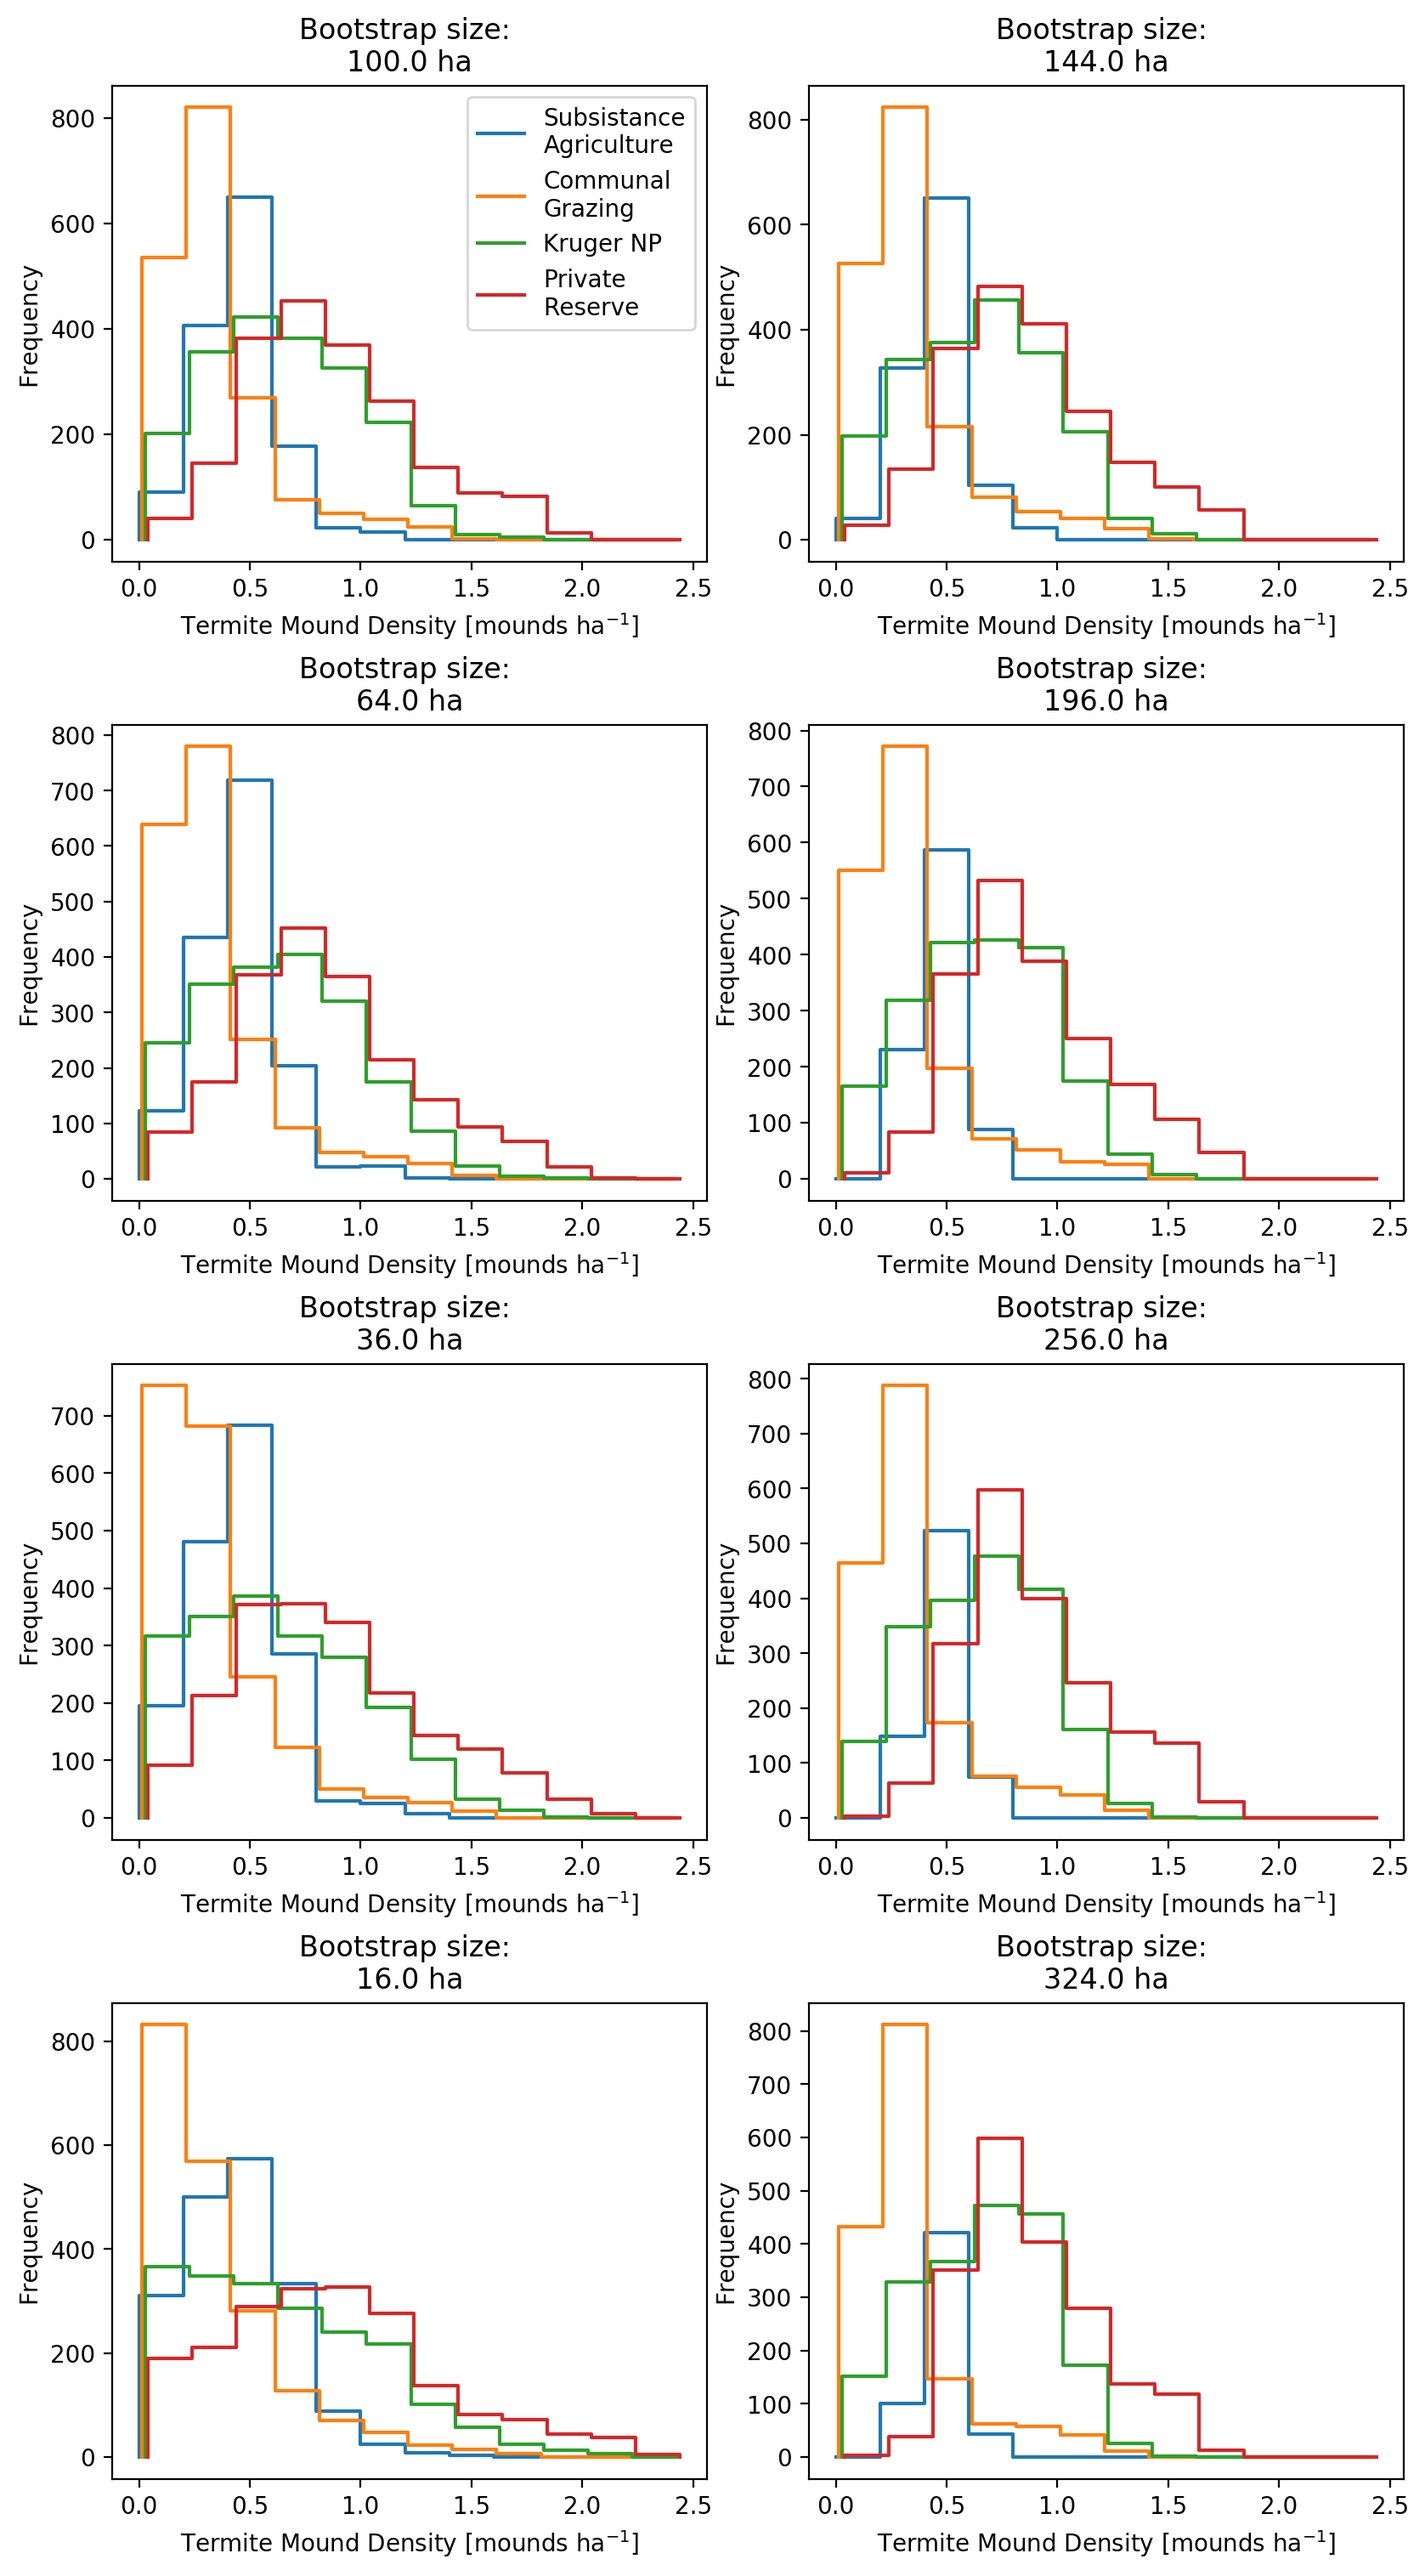
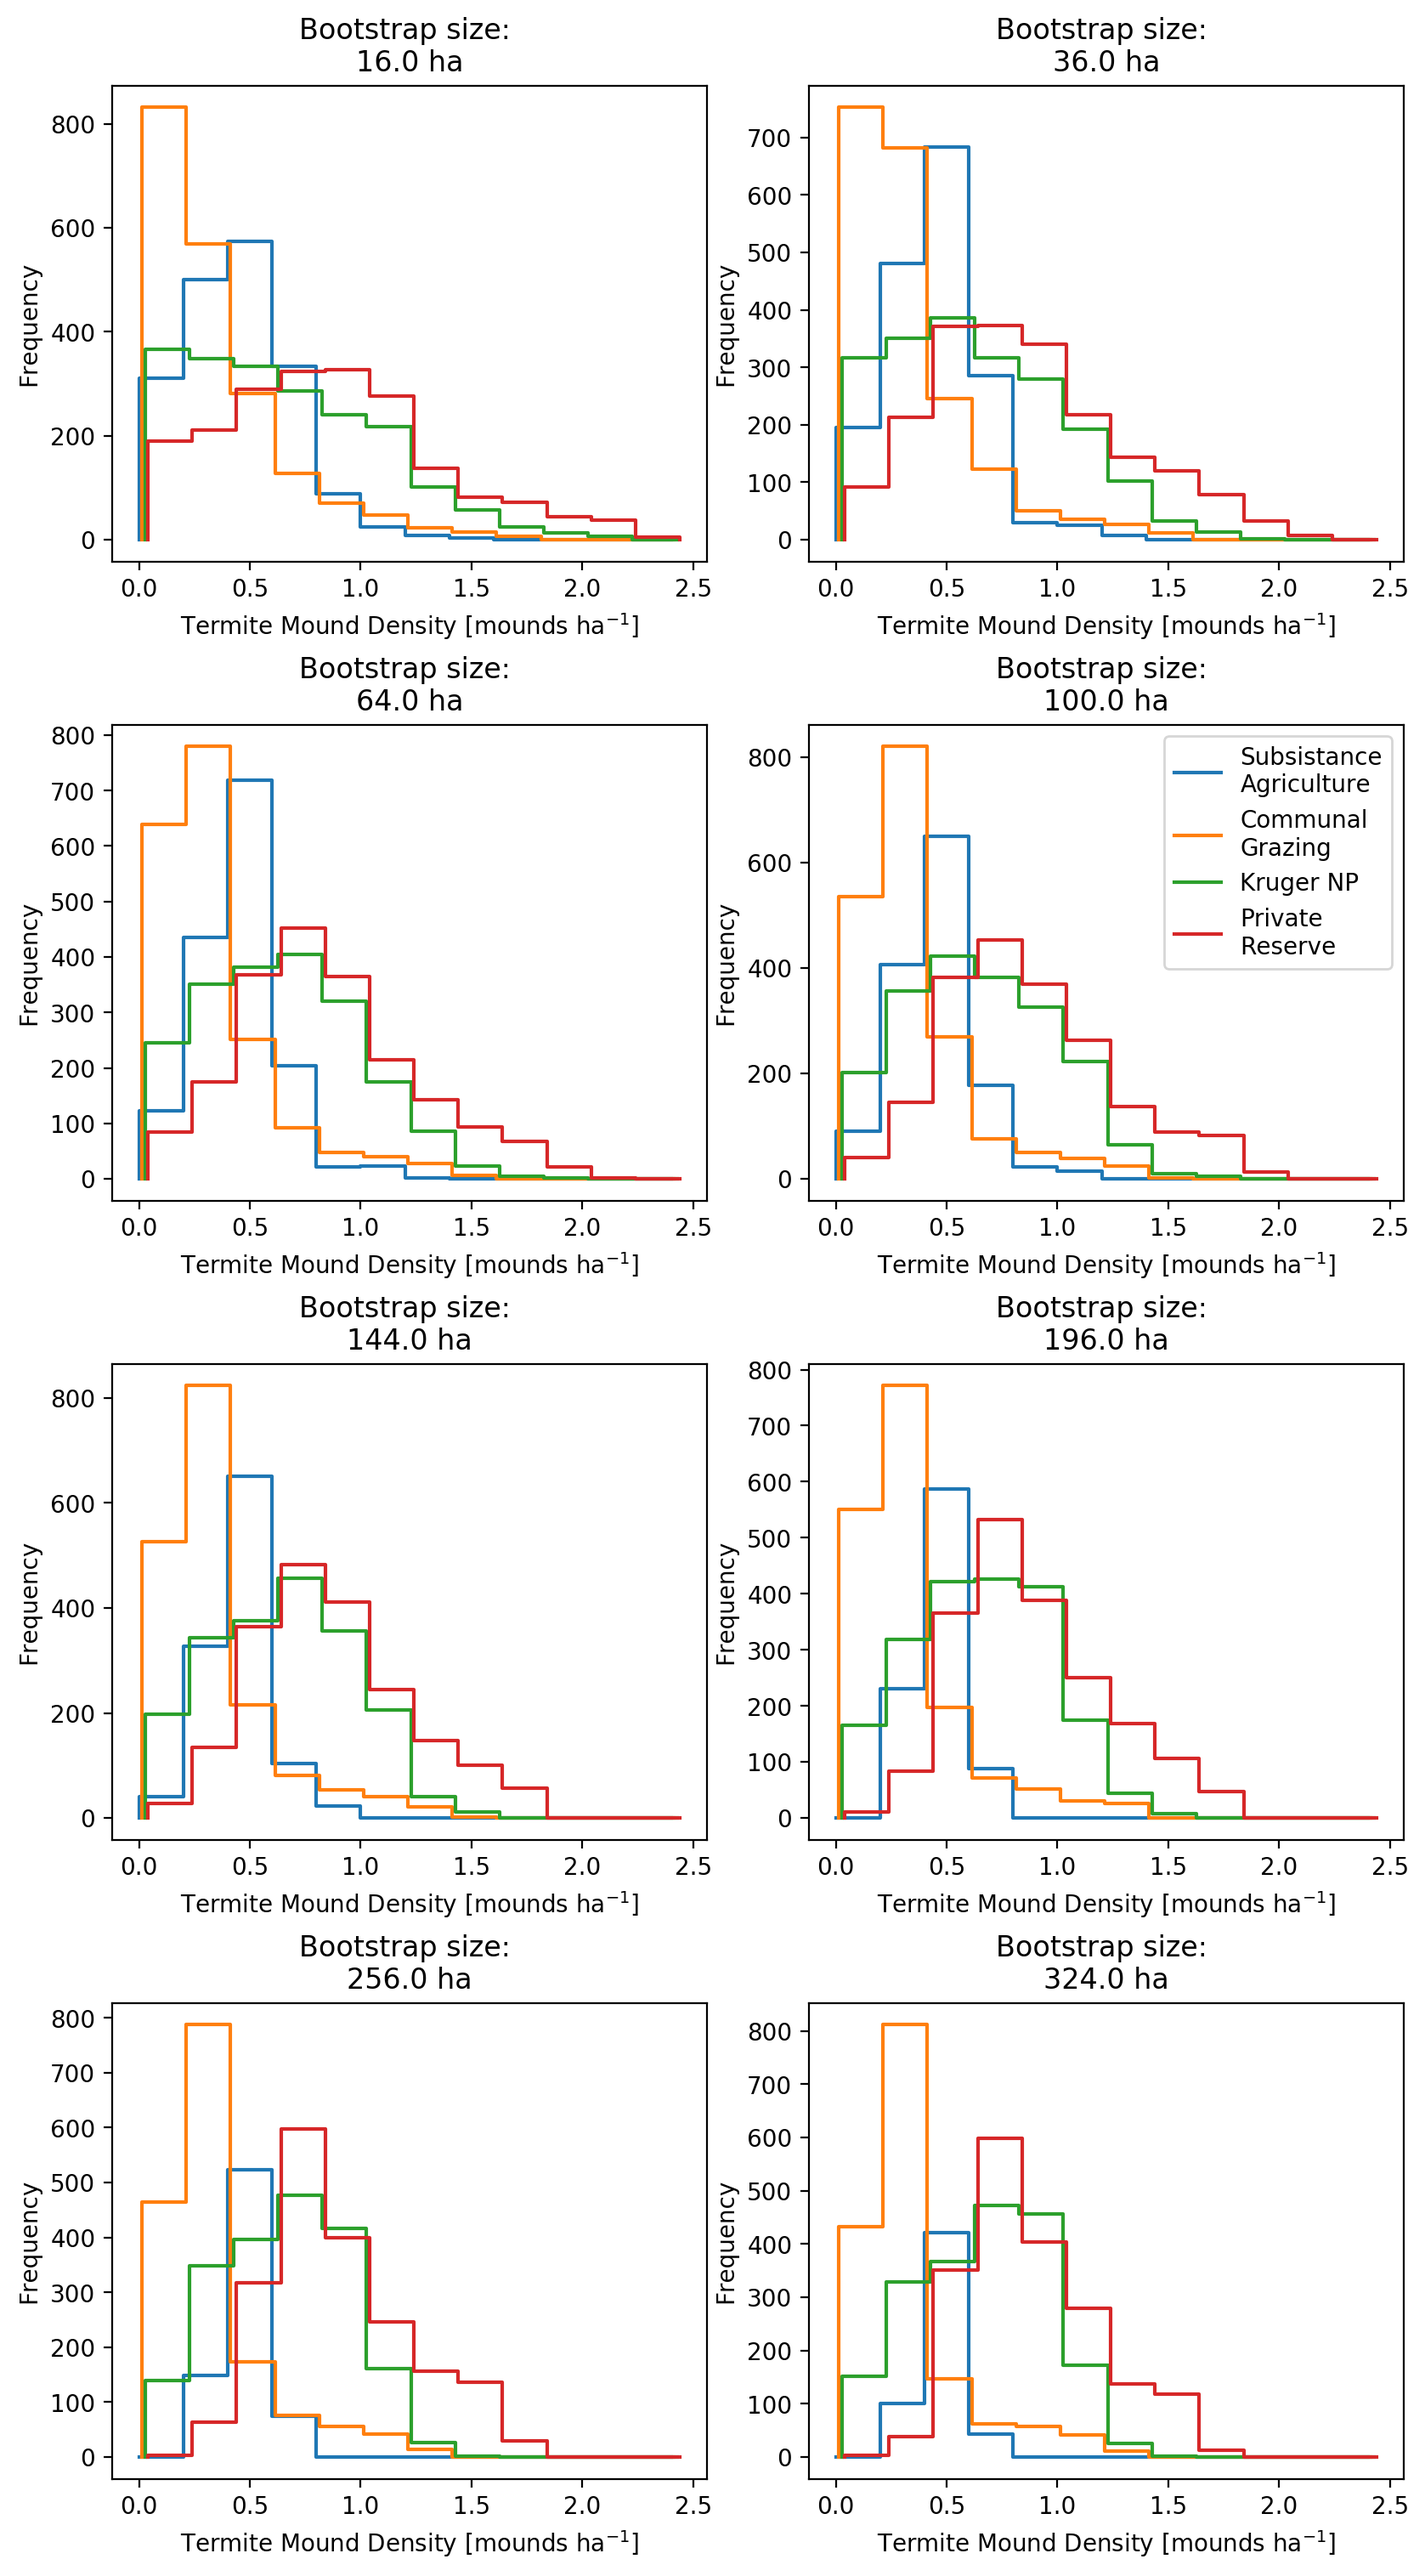
updated fig si 1 order

diff --git a/si_plots.py b/si_plots.py
@@ -83,18 +83,19 @@ plot_x_size = plot_y_size*2
 
 for _s in range(len(ss_list)):
 
-    if (_s < n_rows ):
-        ax = fig.add_axes([edge_buffer,edge_buffer * (1+_s) + plot_y_size * _s,plot_x_size,plot_y_size],zorder=1)
+    if (_s % 2 == 0):
+        x_pos = edge_buffer
+        y_pos = edge_buffer * (n_rows - np.floor(_s / 2)) + plot_y_size * (n_rows - np.floor(_s/2) - 1)
     else:
-        ax = fig.add_axes([edge_buffer*2+plot_x_size,edge_buffer * (2*n_rows-_s) + plot_y_size * (2*n_rows-_s-1),plot_x_size,plot_y_size],zorder=1)
+        x_pos = edge_buffer * 2 + plot_x_size
 
+    ax = fig.add_axes([x_pos, y_pos, plot_x_size, plot_y_size],zorder=1)
     single_plot(ss_list[_s])
 
     if (_s == 3):
       plt.legend(un_treat_label)
 
 plt.savefig('figs/figure_si_1.png',dpi=200,bbox_inches='tight')
-
 
 
 
